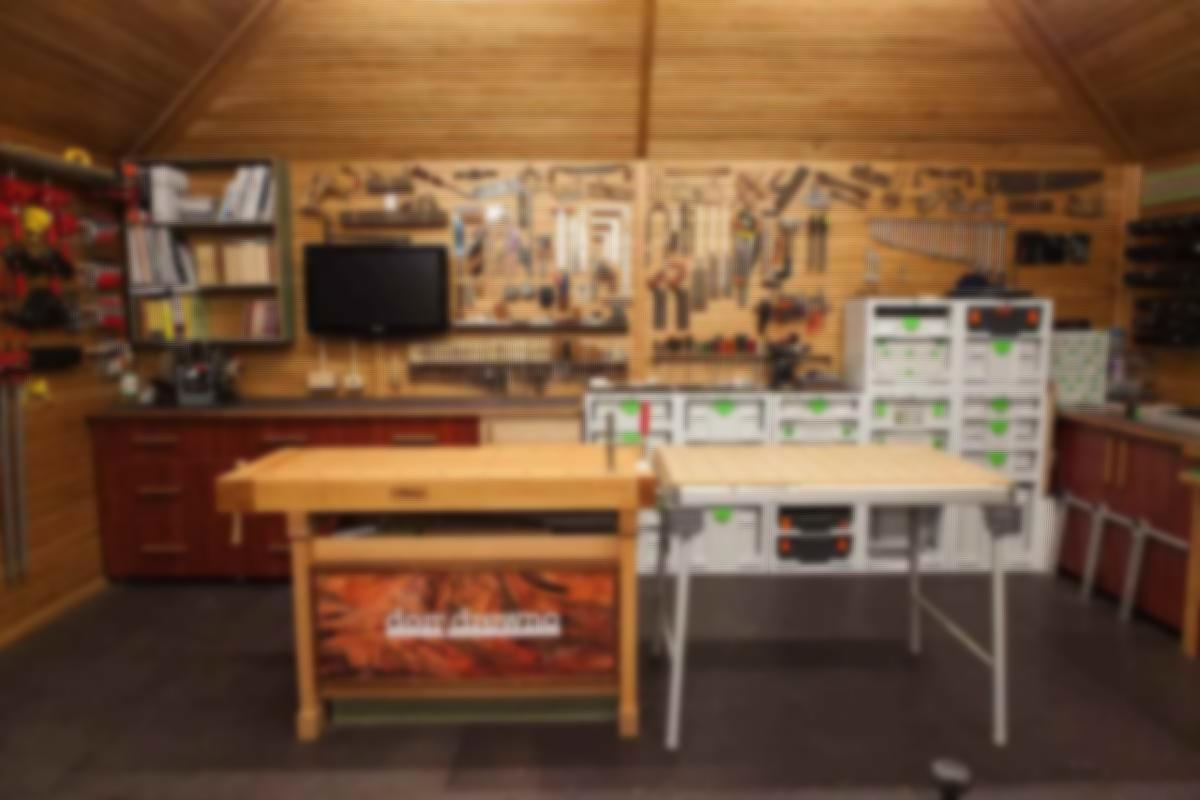
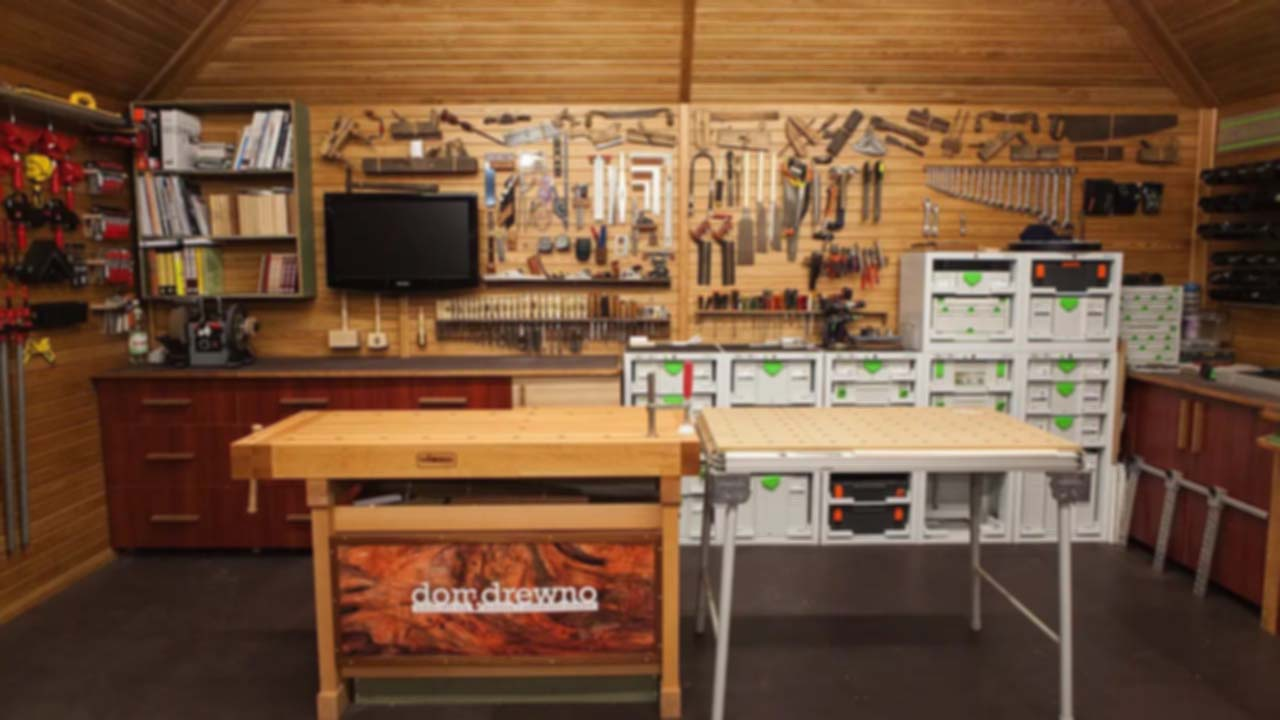
image format complete

diff --git a/app/home/page.tsx b/app/home/page.tsx
@@ -52,7 +52,7 @@ export default function Home() {
               src={background}
               alt="Background Image"
               className="object-cover object-center brightness-50"
-              quality={10}
+              quality={20}
               fill
             />
           </div>
